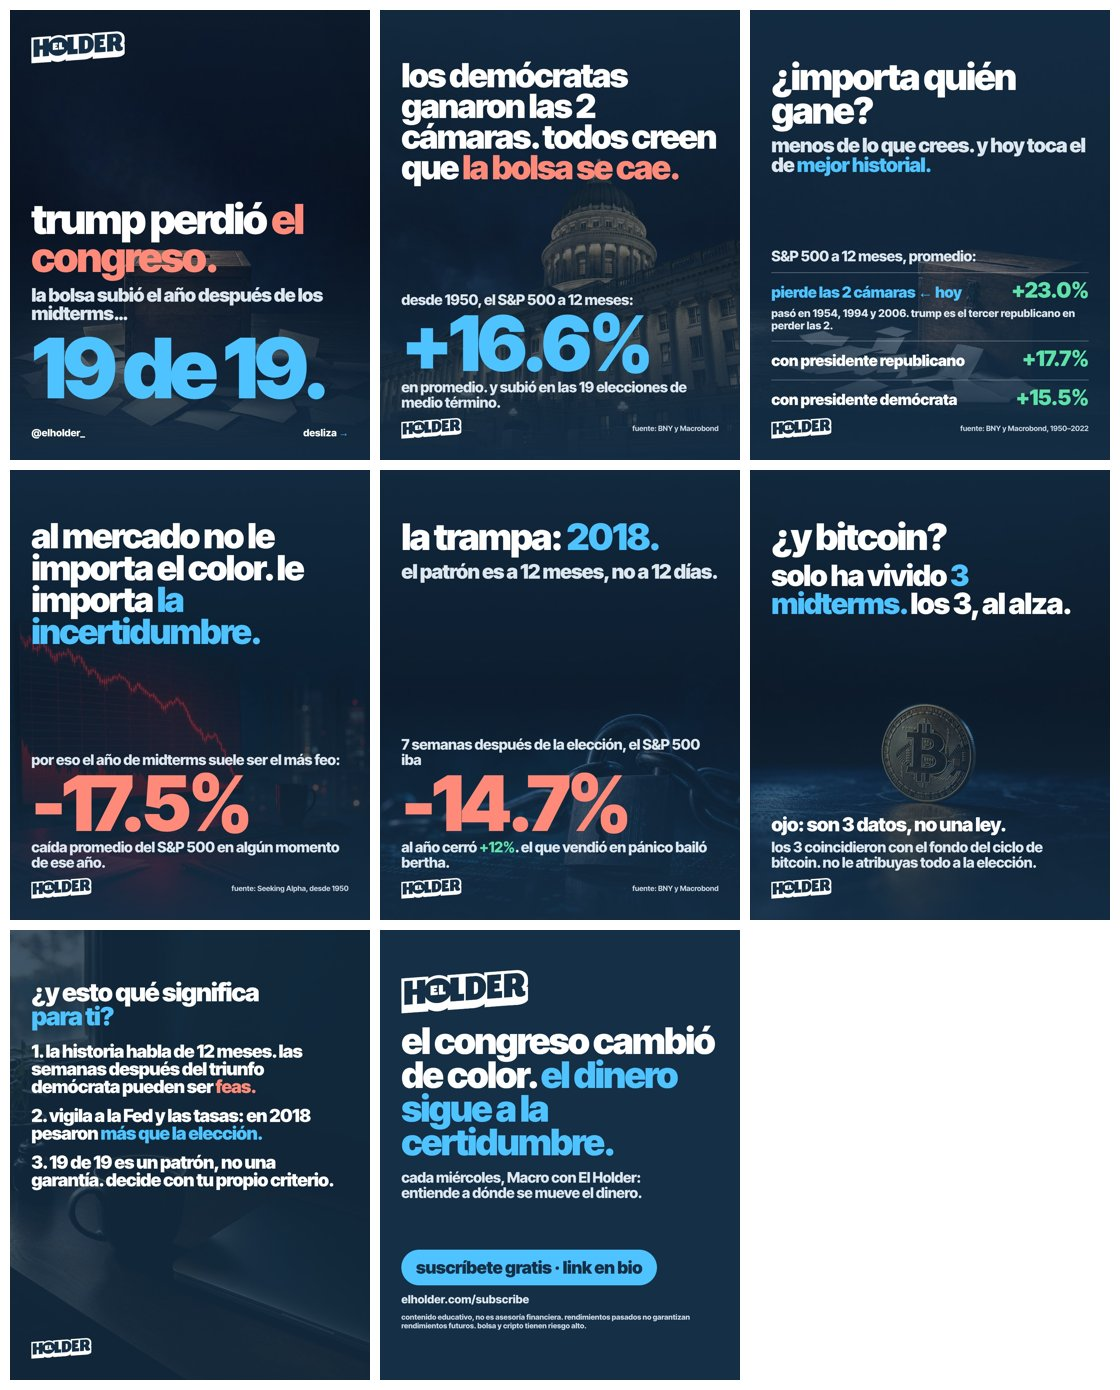
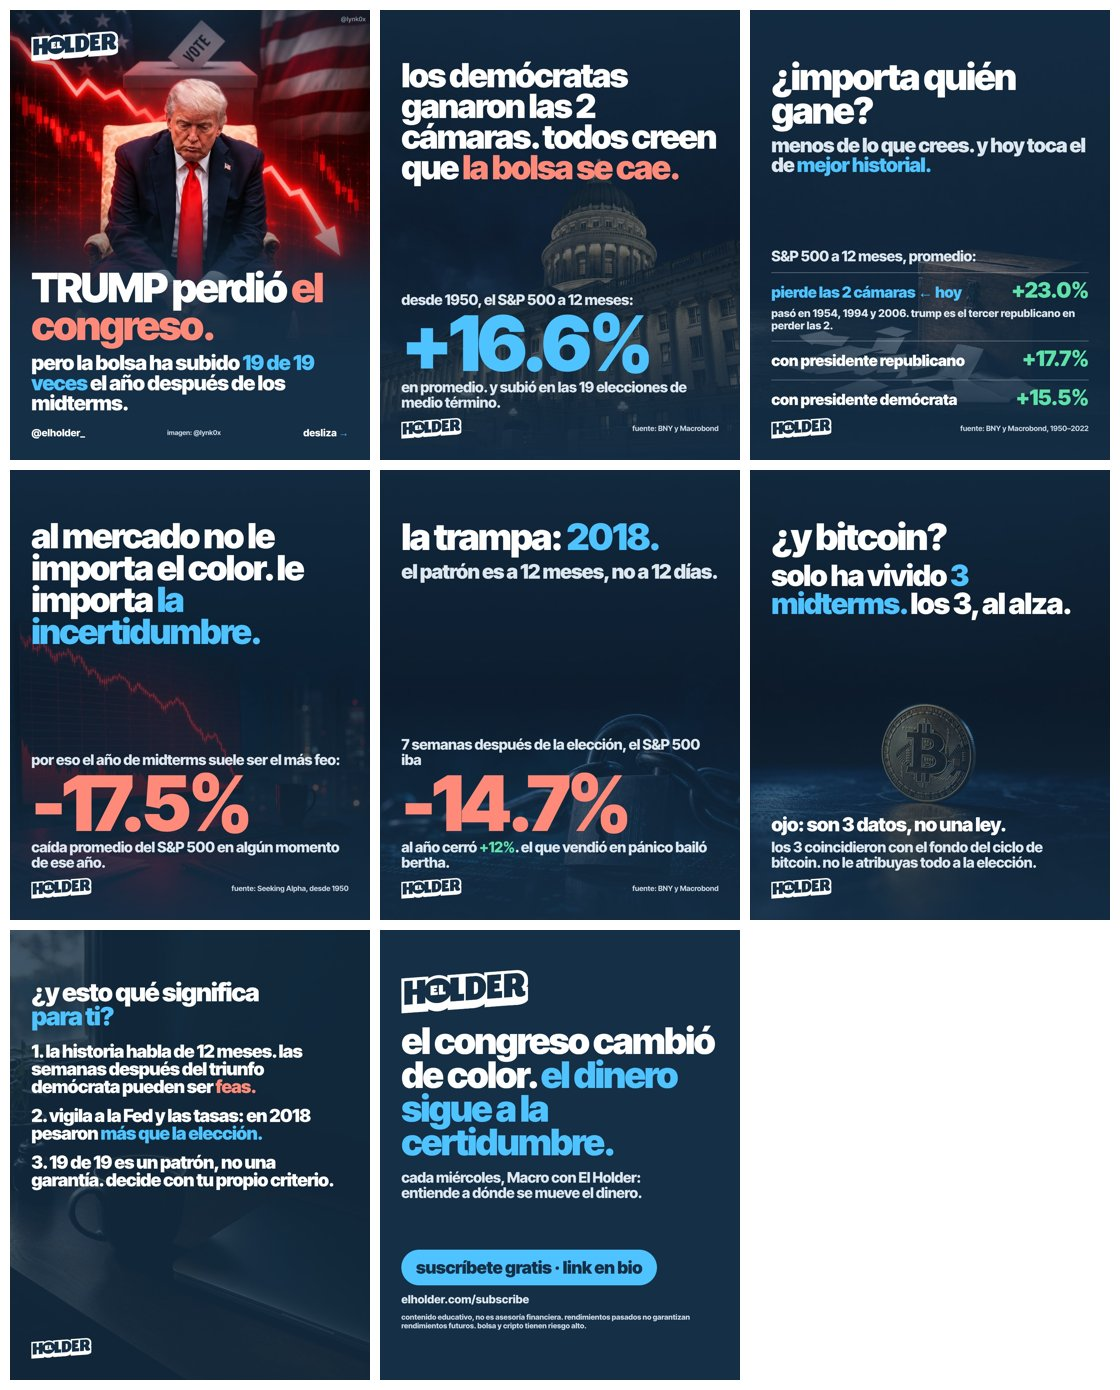
Midterms v3: portada nueva con imagen de Adrián
Claude-Session: https://claude.ai/code/session_013jLTerYjaDhF4CMTdu33uN

Changed region(s): [[0.0, 0.0, 0.3438, 0.3403]]

diff --git a/carruseles/2026-11-04-midterms-19-de-19/src/slide-01.html b/carruseles/2026-11-04-midterms-19-de-19/src/slide-01.html
@@ -1,13 +1,12 @@
 <!doctype html><html lang="es"><head><meta charset="utf-8"><link rel="stylesheet" href="../../../plantilla/base.css"></head><body>
+<!-- PORTADA · Koemmandment 1: números específicos (+ verdad incómoda). Imagen enviada por Adrián (crédito @lynk0x) -->
 <div class="slide">
-<!-- PORTADA · Koemmandment 1: números específicos (+ estructura verdad incómoda) -->
-  <div class="bg" style="background-image:url(../../../fondos/urnas-elecciones-01.jpg)"></div>
-  <div class="capa suave"></div>
-  <div class="top" style="align-items:center"><img src="../../../brand/logo-horizontal-transparente.png" alt="El Holder" style="width:280px;height:auto"><span></span></div>
-  <div class="abajo" style="bottom:170px;gap:30px">
-    <h2 class="t-xl" style="font-size:124px">trump perdió <span class="rojo">el congreso.</span></h2>
-    <p class="t-m" style="font-size:56px;color:#DCE6EF">la bolsa subió el año después de los midterms…</p>
-    <h1 class="cifra" style="font-size:250px">19 de 19.</h1>
+  <div class="bg" style="background-image:url(../fondos/trump-portada.jpg);background-size:1080px auto;background-position:top center;background-repeat:no-repeat"></div>
+  <div class="capa" style="background:linear-gradient(180deg,rgba(21,47,70,.55) 0%,rgba(21,47,70,0) 18%,rgba(21,47,70,0) 42%,rgba(21,47,70,.88) 62%,rgba(21,47,70,1) 78%)"></div>
+  <div class="top" style="align-items:center"><img src="../../../brand/logo-horizontal-transparente.png" alt="El Holder" style="width:260px;height:auto"><span></span></div>
+  <div class="abajo" style="bottom:140px;gap:26px">
+    <h1 class="t-xl" style="font-size:122px">TRUMP perdió <span class="rojo">el congreso.</span></h1>
+    <p class="t-m" style="font-size:62px">pero la bolsa ha subido <span class="acento">19 de 19 veces</span> el año después de los midterms.</p>
   </div>
-  <div class="pie"><span class="handle">@elholder_</span><span class="handle">desliza <span class="acento">→</span></span></div>
+  <div class="pie"><span class="handle">@elholder_</span><span style="font-size:20px">imagen: @lynk0x</span><span class="handle">desliza <span class="acento">→</span></span></div>
 </div></body></html>
